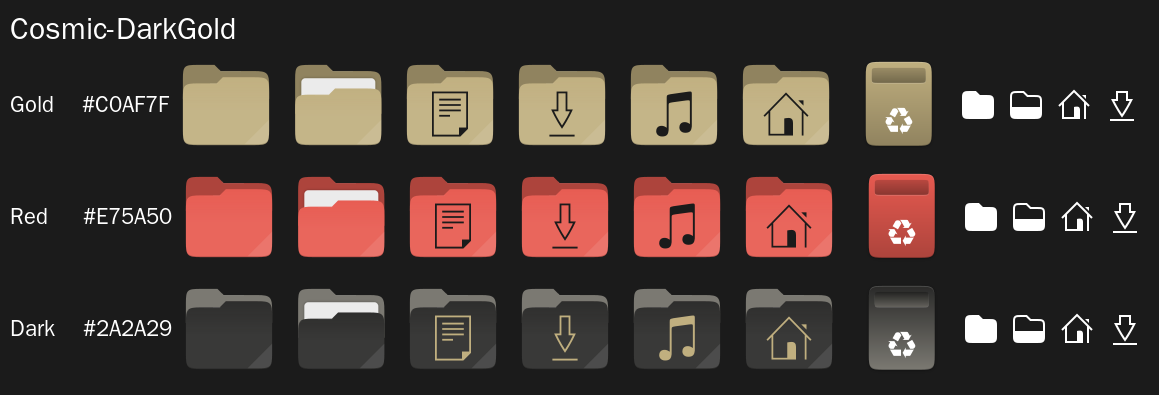
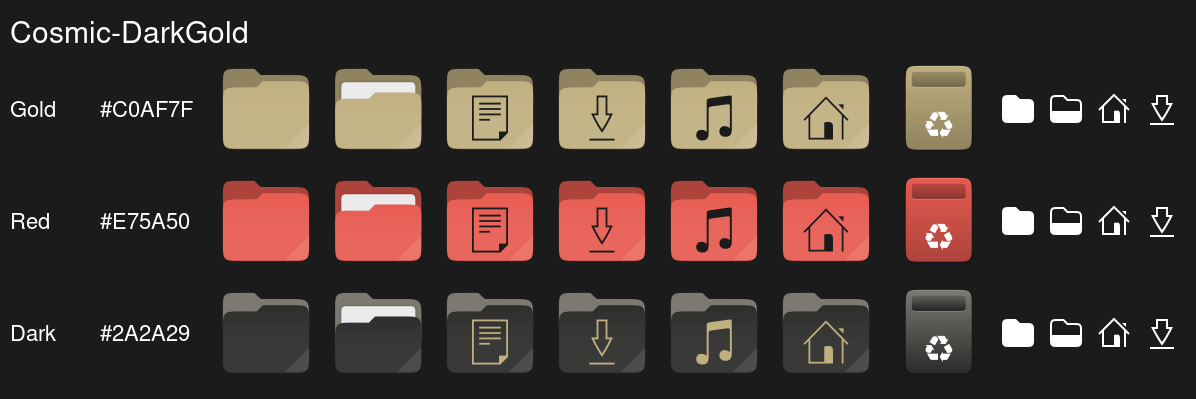
fix: trash gradient order, Monochrome White trash contrast, aligned preview labels

diff --git a/cosmic_icons/preview.py b/cosmic_icons/preview.py
@@ -23,9 +23,11 @@ def render(svg: Path, px: int, out: Path) -> Path:
     return out
 
 
-def label(text: str, bg: str, fg: str, size: int, out: Path) -> Path:
+def label(text: str, bg: str, fg: str, size: int, out: Path, width: int | None = None) -> Path:
+    # Pad to a fixed width (without scaling the text) so icon strips line up.
+    pad = ["-gravity", "west", "-extent", f"{width}x{size * 2}"] if width else []
     run("convert", "-background", bg, "-fill", fg, "-pointsize", str(size),
-        f"label: {text}", str(out))
+        f"label: {text}", *pad, str(out))
     return out
 
 
@@ -43,9 +45,10 @@ def theme_sheet(theme: str, dist: Path, tmp: Path) -> Path:
         run("montage", *map(str, icons), "-tile", f"{len(icons)}x1",
             "-geometry", "+8+8", "-background", bg, str(strip))
         front = resolve(spec, variant)["front"]
-        name = label(f"{variant:<7} {front}", bg, fg, 22, tmp / f"{variant}-label.png")
+        name = label(variant, bg, fg, 22, tmp / f"{variant}-name.png", width=90)
+        code = label(front, bg, fg, 22, tmp / f"{variant}-hex.png", width=110)
         row = tmp / f"{variant}-row.png"
-        run("convert", str(name), str(strip), "-background", bg,
+        run("convert", str(name), str(code), str(strip), "-background", bg,
             "-gravity", "center", "+append", str(row))
         rows.append(row)
     PREVIEWS.mkdir(exist_ok=True)

diff --git a/cosmic_icons/palettes.py b/cosmic_icons/palettes.py
@@ -11,14 +11,16 @@ SOURCE = {
 
 # Trash icon gradient. Also used by devices/ icons, so only swapped under places/.
 TRASH_SOURCE = {
-    "front": "rgb(26,214,171)",
-    "back": "rgb(50,157,182)",
+    "trash_top": "rgb(26,214,171)",
+    "trash_bottom": "rgb(50,157,182)",
 }
 
 BACK_SHADE = 0.75
 
-# Variant keys: front (required), back, symbol, accent (optional).
+# Variant keys: front (required), back, symbol, accent, trash (optional).
 # Defaults: back = shade(front, BACK_SHADE), symbol = theme bg, accent = front.
+# Trash gradient defaults to the lighter of front/back on top; "trash" overrides
+# it (top = trash, bottom = shade(trash, BACK_SHADE)).
 THEMES = {
     "DarkGold": {
         "bg": "#1B1B1B", "text": "#FFFFFF",
@@ -41,7 +43,8 @@ THEMES = {
         "bg": "#111111", "text": "#CCCCCC",
         "variants": {
             "Silver": {"front": "#AAAAAA"},
-            "White": {"front": "#DDDDDD"},
+            # Darker trash so its white recycle glyph stays readable.
+            "White": {"front": "#DDDDDD", "trash": "#828282"},
             "Dark": {"front": "#2A2A2A", "back": "#636363", "symbol": "#CCCCCC", "accent": "#AAAAAA"},
         },
     },

diff --git a/cosmic_icons/recolor.py b/cosmic_icons/recolor.py
@@ -23,15 +23,30 @@ def to_rgb(hex_color: str) -> str:
     return "rgb({},{},{})".format(*(int(value[i:i + 2], 16) for i in (0, 2, 4)))
 
 
+def luminance(hex_color: str) -> float:
+    value = hex_color.lstrip("#")
+    r, g, b = (int(value[i:i + 2], 16) for i in (0, 2, 4))
+    return 0.2126 * r + 0.7152 * g + 0.0722 * b
+
+
 def resolve(theme: dict, variant: str) -> dict[str, str]:
     spec = theme["variants"][variant]
     front = spec["front"].upper()
+    back = spec.get("back", shade(front, BACK_SHADE)).upper()
+    if "trash" in spec:
+        trash_top = spec["trash"].upper()
+        trash_bottom = shade(trash_top, BACK_SHADE)
+    else:
+        # Upstream trash gradient runs light to dark, top to bottom.
+        trash_top, trash_bottom = sorted((front, back), key=luminance, reverse=True)
     return {
         "front": front,
-        "back": spec.get("back", shade(front, BACK_SHADE)).upper(),
+        "back": back,
         "symbol": spec.get("symbol", theme["bg"]).upper(),
         "accent": spec.get("accent", front).upper(),
         "text": theme["text"].upper(),
+        "trash_top": trash_top,
+        "trash_bottom": trash_bottom,
     }
 
 

diff --git a/tests/test_recolor.py b/tests/test_recolor.py
@@ -39,7 +39,21 @@ class ResolveTest(unittest.TestCase):
             "symbol": "#1A1B26",
             "accent": "#7AA2F7",
             "text": "#C7D1FD",
+            "trash_top": "#7AA2F7",
+            "trash_bottom": shade("#7AA2F7", 0.75),
         })
+
+    def test_trash_puts_lighter_color_on_top(self):
+        # Dark variants have a back tab lighter than the front panel.
+        c = resolve(THEMES["DarkGold"], "Dark")
+        self.assertEqual(c["trash_top"], "#7B7972")
+        self.assertEqual(c["trash_bottom"], "#2A2A29")
+
+    def test_trash_override(self):
+        # White glyph needs a darker trash than the #DDDDDD folders.
+        c = resolve(THEMES["Monochrome"], "White")
+        self.assertEqual(c["trash_top"], "#828282")
+        self.assertEqual(c["trash_bottom"], shade("#828282", 0.75))
 
     def test_explicit_dark_variant(self):
         c = resolve(THEMES["DarkGold"], "Dark")

diff --git a/tests/test_build.py b/tests/test_build.py
@@ -75,6 +75,14 @@ class BuildPackTest(unittest.TestCase):
         printer = (dest / "devices/64/printer.svg").read_bytes()
         self.assertEqual(printer, TRASH)
 
+    def test_dark_variant_trash_lighter_on_top(self):
+        dest = self.build("DarkGold", "Dark")
+        trash = (dest / "places/64/user-trash.svg").read_bytes()
+        self.assertEqual(
+            trash,
+            b'<stop style="stop-color:rgb(123,121,114)"/><stop style="stop-color:rgb(42,42,41)"/>',
+        )
+
     def test_symlinks_preserved(self):
         dest = self.build()
         link = dest / "places/64/folder-download.svg"
